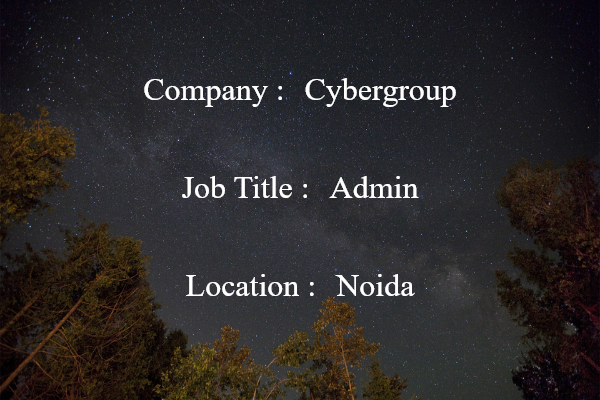
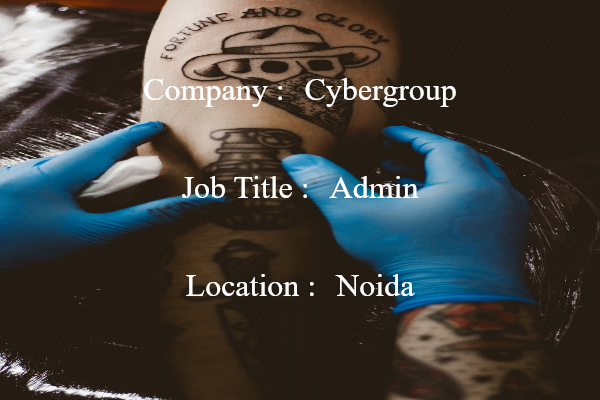
removed try and catch

diff --git a/app.js b/app.js
@@ -84,60 +84,60 @@ app.post('/schedule-post', (req, res, next) => {
         fs.writeFile('index.html', data, ()=>{
             console.log("created html File");
             (async () => {
-                try{
-                    const browser = await puppeteer.launch({
-                        args: [
-                            '--no-sandbox', 
-                            '--disable-setuid-sandbox'
-                        ]
-                    });
-                    const page = await browser.newPage();
-                    await page.goto(__dirname + "/index.html");
-                    await page.setViewport({
-                        width: 600,
-                        height: 400,
-                        deviceScaleFactor: 1,
-                    })
-                    await page.screenshot({path: 'screenshot.png'});
-                    console.log("screenshot saved");  
+                // try{
+                const browser = await puppeteer.launch({
+                    args: [
+                        '--no-sandbox', 
+                        '--disable-setuid-sandbox'
+                    ]
+                });
+                const page = await browser.newPage();
+                await page.goto(__dirname + "/index.html");
+                await page.setViewport({
+                    width: 600,
+                    height: 400,
+                    deviceScaleFactor: 1,
+                })
+                await page.screenshot({path: 'screenshot.png'});
+                console.log("screenshot saved");  
+                
+                cloudinary.v2.uploader.upload("screenshot.png", (err, result)=> { 
                     
-                    cloudinary.v2.uploader.upload("screenshot.png", (err, result)=> { 
-                        
-                        if(err){
-                        res.send('Error :' + err);
-                        }
-                        imageUrl = result.url;
-                        console.log("Image URL created");
-                        
-                        let text = "text="+myJson.text+"&now=true&media[photo]=" + imageUrl;
-                        if(myJson.scheduled_at !== "")
-                            text += "&scheduled_at=" + myJson.scheduled_at;
-                        
-                        profile_ids.forEach(element => {
-                            text =  text + "&" + "profile_ids[]=" + element; 
-                        });
-                        
-                        let options = {
-                            method: 'post',
-                            body: text, 
-                            url: 'https://api.bufferapp.com/1/updates/create.json?access_token='+jsonBody.bufferJson.access_token,
-                            headers: {"Content-Type":"application/x-www-form-urlencoded"},
-                        }
-                        // POST call to buffer api
-                        request(options, (err, response, body)=> {
-                        if (err) {
-                            res.send('Error :'+ err);
-                        }
-                        console.log(' Body :'+ body);
-                        res.send(body);
-                        });
-                    });            
-                    await browser.close();
-                }
-                catch(error){
-                    res.status(406);
-                    return res.send(error.message);
-                }
+                    if(err){
+                    res.send('Error :' + err);
+                    }
+                    imageUrl = result.url;
+                    console.log("Image URL created");
+                    
+                    let text = "text="+myJson.text+"&now=true&media[photo]=" + imageUrl;
+                    if(myJson.scheduled_at !== "")
+                        text += "&scheduled_at=" + myJson.scheduled_at;
+                    
+                    profile_ids.forEach(element => {
+                        text =  text + "&" + "profile_ids[]=" + element; 
+                    });
+                    
+                    let options = {
+                        method: 'post',
+                        body: text, 
+                        url: 'https://api.bufferapp.com/1/updates/create.json?access_token='+jsonBody.bufferJson.access_token,
+                        headers: {"Content-Type":"application/x-www-form-urlencoded"},
+                    }
+                    // POST call to buffer api
+                    request(options, (err, response, body)=> {
+                    if (err) {
+                        res.send('Error :'+ err);
+                    }
+                    console.log(' Body :'+ body);
+                    res.send(body);
+                    });
+                });            
+                await browser.close();
+                // }
+                // catch(error){
+                //     res.status(406);
+                //     return res.send(error.message);
+                // }
             })();
         });
     });
@@ -167,6 +167,6 @@ app.get('/future-posts/:account', (req,res,next)=>{
 let server = app.listen(process.env.PORT || PORT, ()=>{
     let host = server.address().address;
     let port = server.address().port;
-    console.log("app listening at http://%s:%s", host,port);
+    console.log("app listening http://localhost:%s",port);
 })
 

diff --git a/index.html b/index.html
@@ -14,9 +14,9 @@ body{
   font-family:cursive;  
 }
 </style>
-<!-- <body  style="font-family:https://www.midarkskypark.org/wp-content/uploads/2015/05/slide2-1920x1080.jpg"> -->
+<!-- <body  style="font-family:https://source.unsplash.com/weekly?job(184 kB)"> -->
 <body>
-  <img src="https://www.midarkskypark.org/wp-content/uploads/2015/05/slide2-1920x1080.jpg" alt="background Image" class="img">
+  <img src="https://source.unsplash.com/weekly?job(184 kB)" alt="background Image" class="img">
    <div class="parent">
     <div class="line">
       <h1>Company :</h1>
